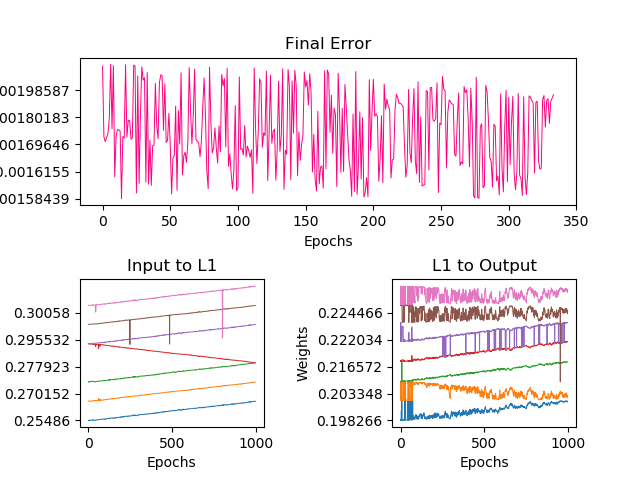
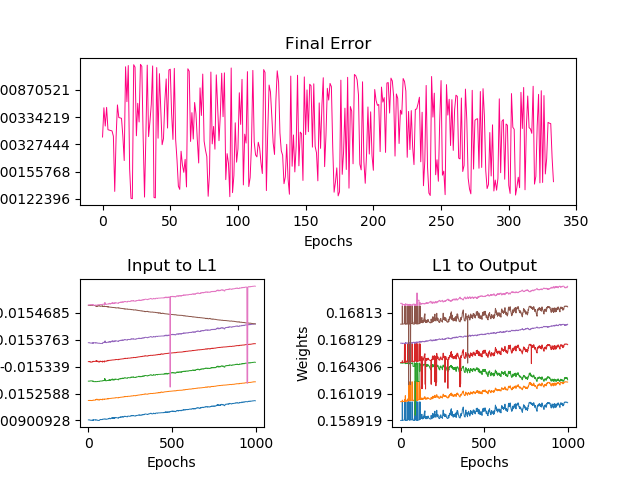
mod

diff --git a/src/Network.cpp b/src/Network.cpp
@@ -190,7 +190,7 @@ void Network::buildRandomWeights()
 	}	
 }
 
-std::vector<double> Network::readInput(std::ifstream& inputFile)
+std::vector<double> Network::readInputV2(std::ifstream& inputFile)
 {
 	std::vector<double> res;
 	std::string line;
@@ -207,6 +207,32 @@ std::vector<double> Network::readInput(std::ifstream& inputFile)
 		int temp3 = temp2 - '0';			//(char)'0' = (int)48 en ASCII --> à soustraire
 		assert(temp3 >= 0 and temp3 <= 9);
 		correctOutputs_.push_back(temp3);	
+	return res;
+}
+
+std::vector<double> Network::readInput(std::ifstream& inputFile)
+{
+	std::vector<double> res;
+	std::string line;
+
+		getline(inputFile, line);
+		std::istringstream streamDouble(line);
+			
+		double temp1(0.0);
+			while(streamDouble >> temp1){
+				res.push_back(temp1);
+			}
+
+		char temp2 = line.back();
+		int temp3 = temp2 - '0';			//(char)'0' = (int)48 en ASCII --> à soustraire
+		assert(temp3 >= 0 and temp3 <= 9);
+		correctOutputs_.push_back(temp3);
+		/*	
+		for(auto i: res){
+			std::cout << i << " ";
+		}
+		std::cout <<std::endl;
+		*/
 	return res;
 }
 

diff --git a/src/Network.hpp b/src/Network.hpp
@@ -70,6 +70,10 @@ public:
 	void calculateDeltas();
 	void deltaLayer(int index);
 	void updateWeights();
+	
+	
+	//-------New Data--------------------
+	std::vector<double> readInputV2(std::ifstream& inputFile);
 
 	Network(unsigned int iterations_tot = 100, double learningRate = 0.5);
 	~Network();

diff --git a/src/main.cpp b/src/main.cpp
@@ -28,7 +28,7 @@ std::ostream& operator<<(std::ostream& sortie, const Matrice& matrice)
 int main()
 {
 	try{
-		Network net(1000, 0.5);
+		Network net(10000, 0.1);
 		net.generateTrainingDataSet();
 		net.run();
 	}
